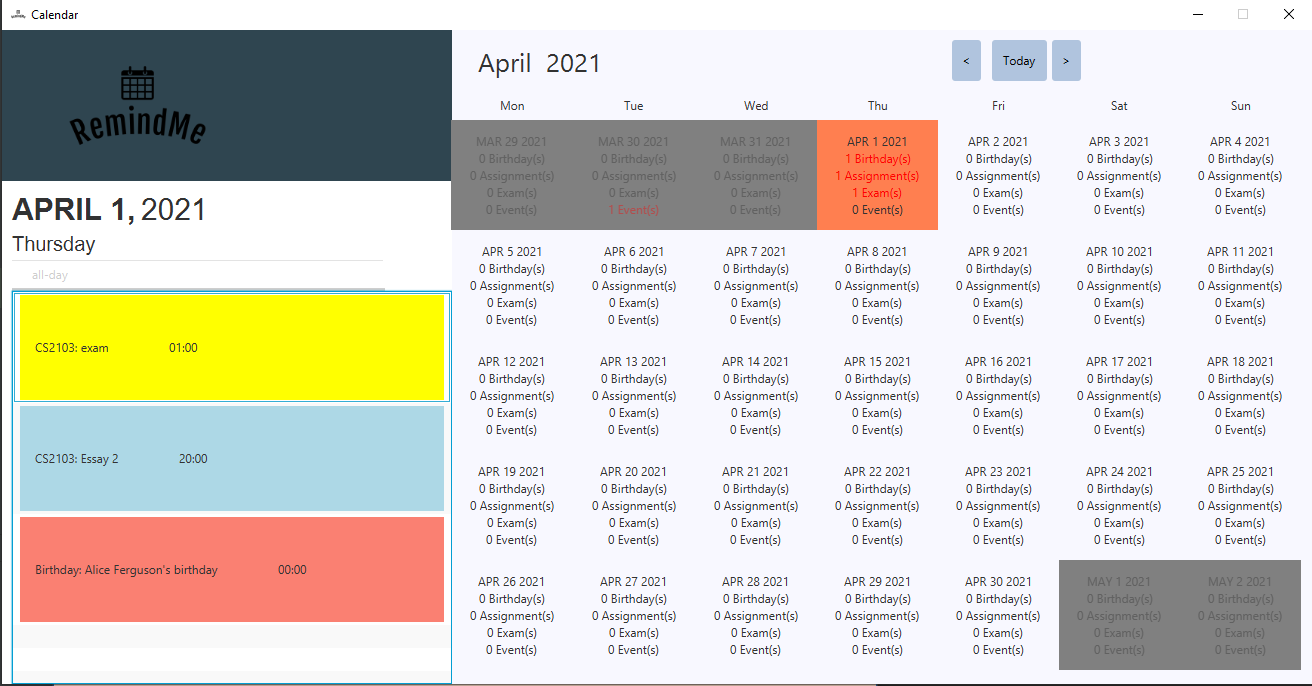
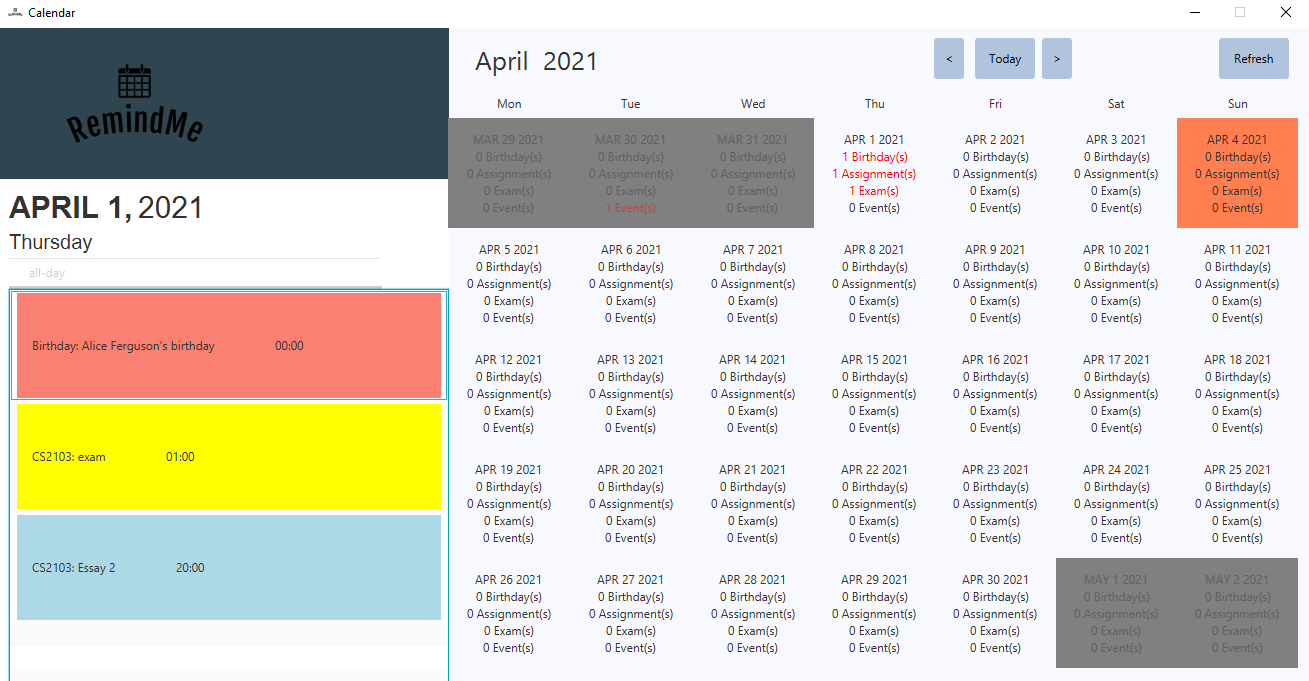
Update ug for calendar

diff --git a/docs/UserGuide.md b/docs/UserGuide.md
@@ -149,7 +149,17 @@ Commands that do not take in parameters (such as `help` and `exit`) ignore extra
 For example: If you input `help 123`, RemindMe will return the result of the `help` function.
 </div>
 
+<div markdown="span" class="alert alert-warning">:exclamation: **Warning:**<br>
+If you have the [calendar window](#39-viewing-calendar-calendar-c) 
+when adding/editing/deleting/clearing events, it will not be automatically reflected on the calendar window.
+You would need to press on the **refresh button** to refresh the calendar. 
+</div>
+
+![refreshButton](images/refreshbutton.png)
+*[refresh button to refresh calendar]*
+
 [Back to Table of Contents](#table-of-contents)
+
 
 ### 3.1 Viewing Help: `help`
 The help function shows the URL to the user guide for RemindMe, which is this current document!
@@ -699,7 +709,8 @@ The calendar window as shown below will be displayed.
 <br>
 You may browse through the calendar over the months by clicking the 
 left arrow button `<` and right arrow button `>` on the top right of the calendar window.
-Additionally, you may click on the `today` button to browse back to the month of the current day's date.
+Additionally, you may click on the `today` button to browse back to the month of the current day's date,
+and refresh the calendar with the `refresh` button.
 
 [Back to Table of Contents](#table-of-contents)
 
